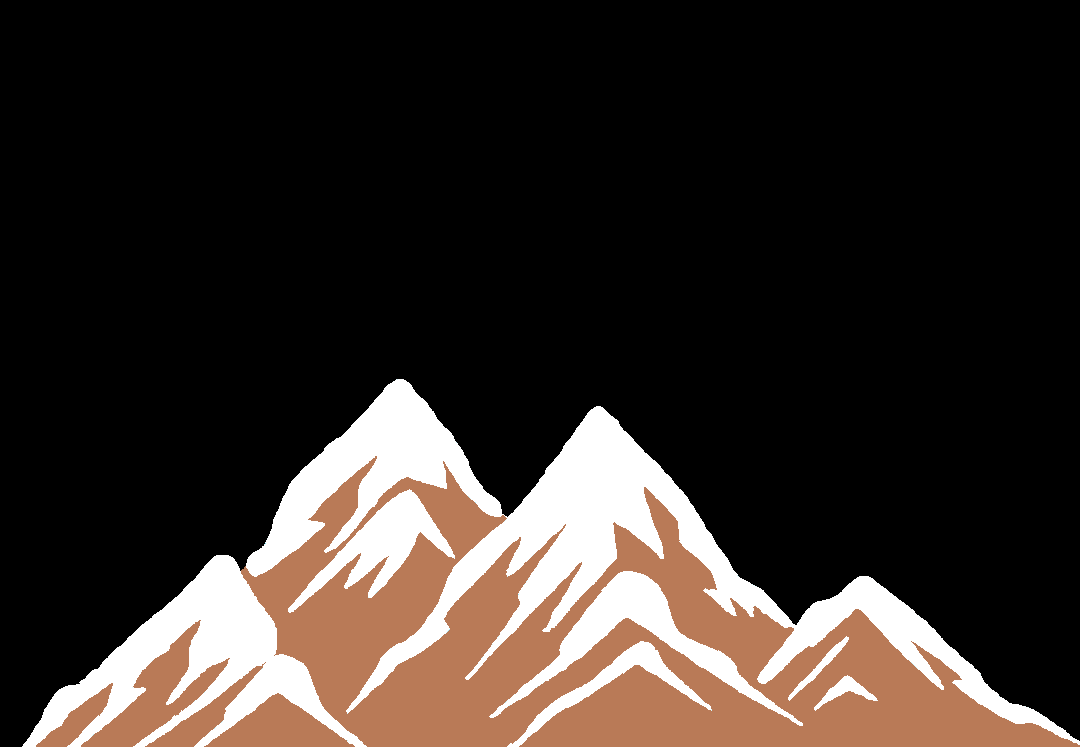
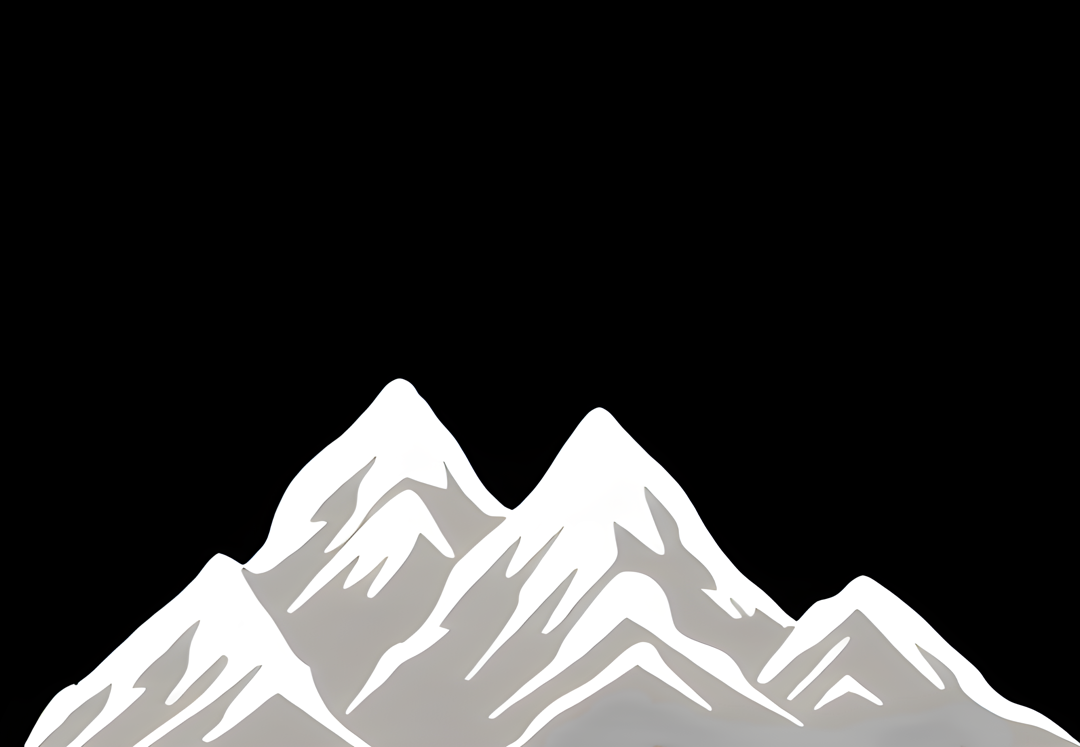
update darktheme

Changed region(s): [[0.0306, 0.6158, 1.0, 1.0]]

diff --git a/src/App.css b/src/App.css
@@ -1,6 +1,8 @@
 *{
     margin: 0;
     padding: 0;
+    background-color: var(--body_background);
+    color: var(--body_color);
 }
 
 
@@ -9,7 +11,7 @@
 }
 
 ::-webkit-scrollbar-track{
-  background: white;
+  background-color: var(--body_background);
 }
 
 ::-webkit-scrollbar-thumb{
@@ -28,10 +30,11 @@ img:hover {
 .topbar{
     height: 500px;
     /* border: 1px red solid; */
-    background-image: url('/mountain-day.png');
+    background-image: var(--background_image);
     background-size: contain;
     background-repeat: no-repeat;
     background-position: center;
+    background-color: var(--body_background);
 }
 
 h1{
@@ -41,6 +44,7 @@ h1{
     font-family: Consolas;
     font-size: 40px;
     font-weight: 900;
+    color: var(--body_color);
 }
 
 .navbar{
@@ -58,6 +62,7 @@ h1{
     list-style: none;
     font-size: large;
     font-family: cursive;
+    color: var(--body_color);
 }
 
 
@@ -67,7 +72,7 @@ h1{
     top: 10px;
     right: 10px; /* Adjust as needed */
     border: none;
-    background-color: white;
+    background-color: var(--body_background);
   }
   
 
@@ -76,25 +81,24 @@ h1{
     position: relative;
     top: 70px;
     left: 850px;
-    height: 60px;
+    height: 100px;
     width: 80px;
+    background-image: var(--svg_image);
+    background-repeat: no-repeat;
+    background-size: contain;
   }
 
-  .mooon{
-    visibility: hidden;
-    position: relative;
-    top: 70px;
-    left: 785px;
-    height: 50px;
-    width: 50px;
-  }
+  
 
 
   .cloud{
     position: relative;
-    top: 250px;
-    left: 50px;
+    top: 100px;
+    left: 300px;
     height: 50px;
+    background-image: var(--cloud);
+    background-repeat: no-repeat;
+    background-size: contain;
     width: 100px;
     animation: move 5s infinite alternate ease;
   }
@@ -105,24 +109,32 @@ h1{
     left: 180px;
     height: 50px;
     width: 100px;
+    background-image: var(--cloud);
+    background-repeat: no-repeat;
+    background-size: contain;
     animation: move 5s infinite alternate ease;
   }
 
   .cloud-2{
     position: relative;
-    top: 250px;
-    left: 850px;
+    left: 1000px;
     height: 50px;
     width: 100px;
+    background-image: var(--cloud);
+    background-repeat: no-repeat;
+    background-size: contain;
     animation: move 5s infinite alternate ease;
   }
 
   .cloud-3{
     position: relative;
-    top: 180px;
-    left: 525px;
+    top: 50px;
+    left: 1100px;
     height: 50px;
     width: 100px;
+    background-image: var(--cloud);
+    background-repeat: no-repeat;
+    background-size: contain;
     animation: move 5s infinite alternate-reverse ease;
   }
 
@@ -142,9 +154,14 @@ h1{
     margin-right: 20%;
     padding: 20px;
     border-radius: 20px;
+    background-color: var(--body_background);
+    color: var(--body_color);
 }
 
-
+.bottom{
+  background-color: var(--body_background);
+  color: var(--body_color);
+}
 
 .bottom h2{
   display: flex;

diff --git a/src/Components/Darkmode.jsx b/src/Components/Darkmode.jsx
@@ -1,9 +1,22 @@
 import React from "react"
 import './Darkmode.css'
 function DarkMode(){
+
+  const setDarkmode = () => {
+    document.querySelector('body').setAttribute('data-theme','dark')
+  }
+
+  const setLightmode = () => {
+    document.querySelector('body').setAttribute('data-theme','light')
+  }
+
+  const toggleTheme = e => {
+    if(e.target.checked) setDarkmode();
+    else setLightmode();
+  }
     return(
         <>
-            <input type="checkbox" className='theme-input'  id="darkmode-toggle"/>
+            <input type="checkbox" className='theme-input'  id="darkmode-toggle" onChange={toggleTheme}/>
             <label htmlFor="darkmode-toggle" className='theme'>
             <svg version="1.1" className="sun" xmlns="http://www.w3.org/2000/svg" xmlnsXlink="http://www.w3.org/1999/xlink" x="0px" y="0px"
             viewBox="0 0 496 496" style={{enablebackground:'new 0 0 496 496'}} xmlSpace="preserve">

diff --git a/src/App.jsx b/src/App.jsx
@@ -24,14 +24,11 @@ function App() {
         <button className='btn-theme'>
           <DarkMode/>
         </button>
-        <div className='sun-moon'>
-          <img className='suun'src="/sun.png" alt="" />
-          <img className='mooon' src="/moon.png" alt="" />
-          <img className='cloud' src="/cloud.png" alt="" />
-          <img className='cloud-1' src="/cloud.png" alt="" />
-          <img className='cloud-2' src="/cloud.png" alt="" />
-          <img className='cloud-3' src="/cloud.png" alt="" />
-        </div>
+          <div className='suun'></div>
+          <div className="cloud"></div>
+          <div className="cloud-1"></div>
+          <div className="cloud-2"></div>
+          <div className="cloud-3"></div>
       </div>
       <div className="middle">
         <HotelCheckinForm/>

diff --git a/src/index.css b/src/index.css
@@ -1,0 +1,15 @@
+:root {
+    --body_background: white;
+    --body_color: black;
+    --background_image: url('/mountain-day.png');
+    --svg_image: url('/sun.png');
+    --cloud: url('/cloud.png');
+}
+
+[data-theme="dark"]{
+    --body_background: black;
+    --body_color: white;
+    --background_image: url('/mountain-night.png');
+    --svg_image: url('/moon.png');
+    --cloud: url('/black.png')
+}

diff --git a/src/Components/Darkmode.css b/src/Components/Darkmode.css
@@ -3,7 +3,7 @@
 	height:40px;
 	position: relative;
 	display: block;
-	background: #ebebeb;
+	background: var(--body_background);
 	border-radius: 200px;
 	box-shadow: inset 0px 5px 15px rgba(0,0,0,0.4), inset 0px -5px 15px rgba(255,255,255,0.4);
 	cursor: pointer;
@@ -53,6 +53,7 @@
 	width: 20px;
 	top:10px;
 	z-index: 100;
+	background-color: rgba(0, 0, 0, 0);
 }
 .theme svg.sun {
 	left:12px;

diff --git a/src/Components/Contact.css b/src/Components/Contact.css
@@ -61,14 +61,14 @@
     border: 2px #00C7EB solid;
     padding: 5px;
     border-radius: 5px;
-    background-color: white;
+    background-color: var(--body_background);
     font-family: cursive;
     transition: transform 0.5s ease;
+    color: var(--body-color);
   }
   
   
   .object button:hover{
     transform: scale(1.1);
-    background-color: aqua;
   }
   
